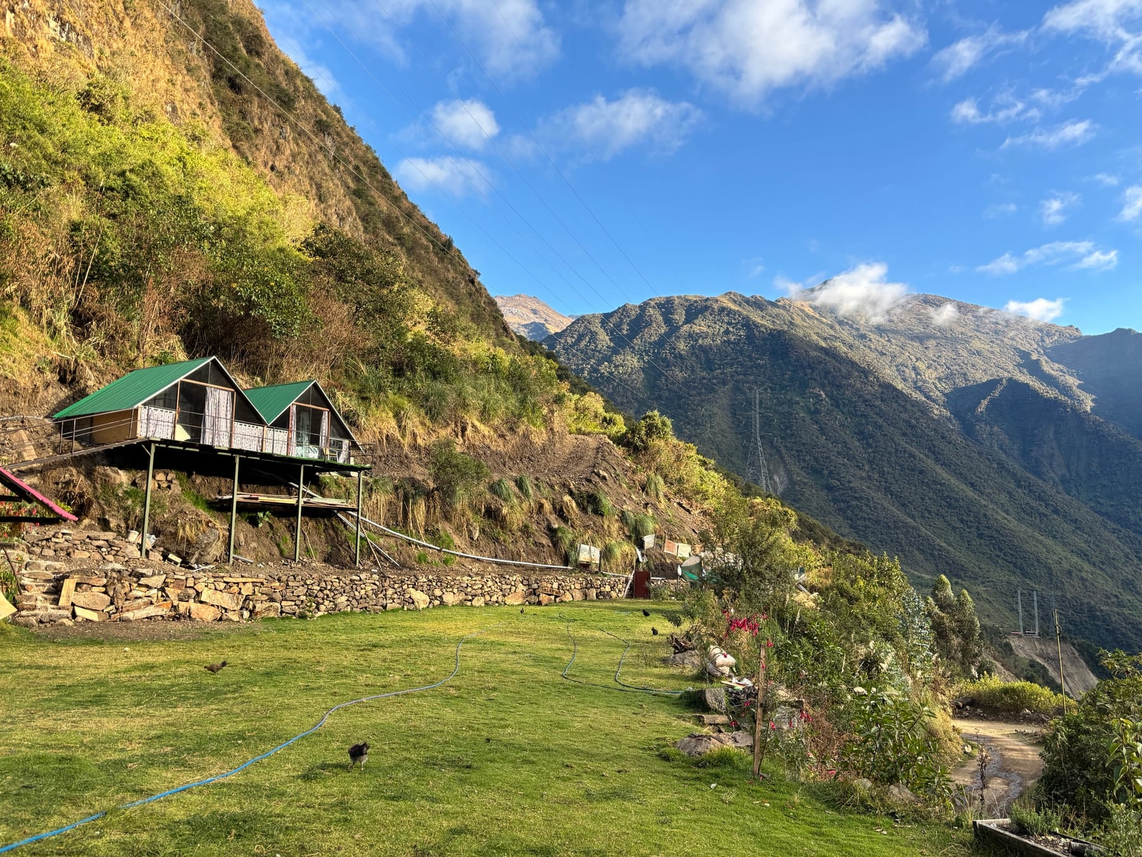
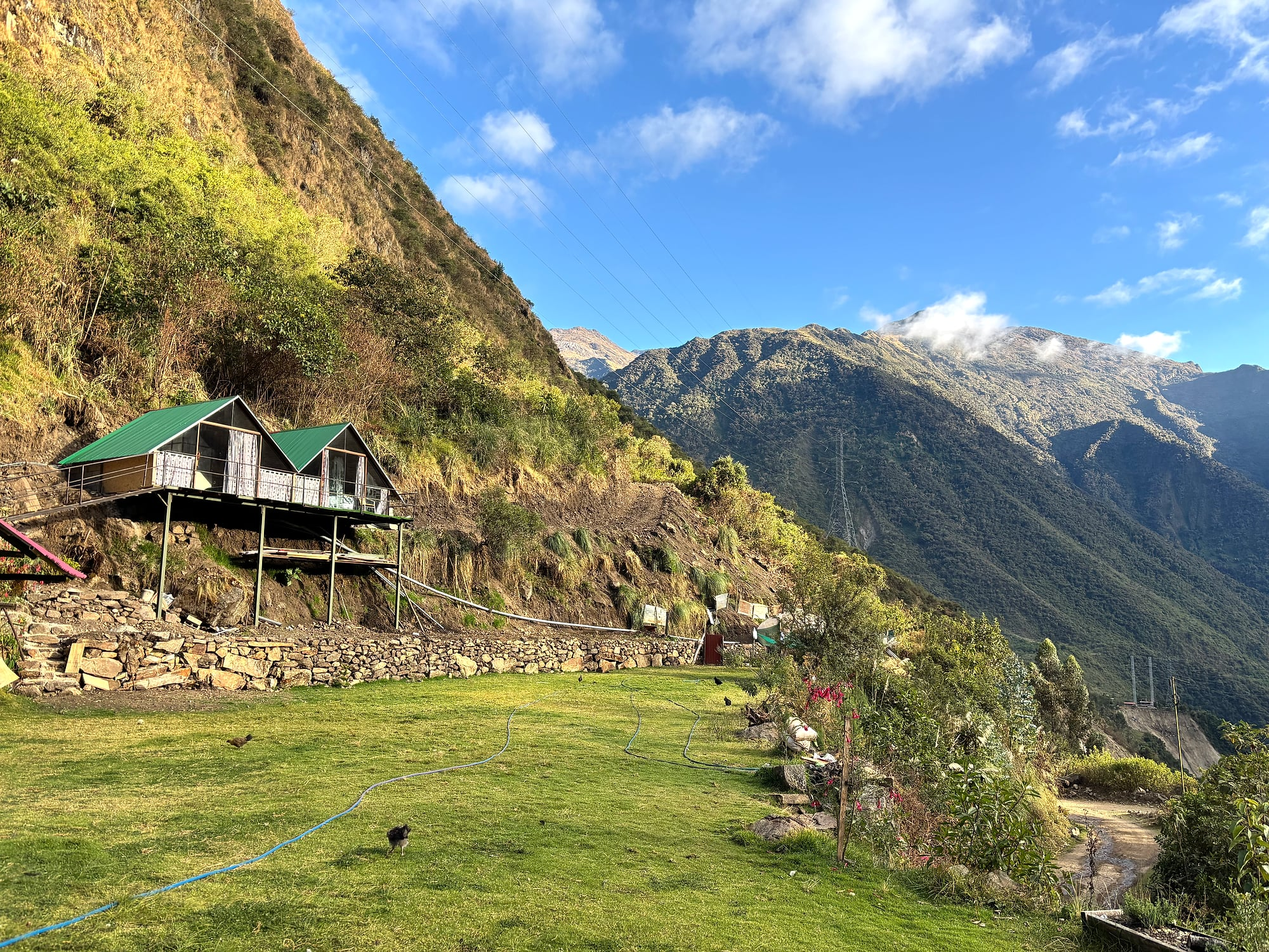
Refresh landing hero from original IMG_8365 with a brighter HD export.

diff --git a/src/components/HomeView.tsx b/src/components/HomeView.tsx
@@ -33,9 +33,9 @@ export function HomeView() {
             src={images.hero}
             priority
             fillParent
-            objectPosition="48% 45%"
+            objectPosition="42% 40%"
             sizes="100vw"
-            quality={85}
+            quality={88}
             imageClassName="object-cover"
             className="rounded-none md:origin-center md:scale-105 md:animate-[heroZoom_18s_ease-out_forwards]"
           />
